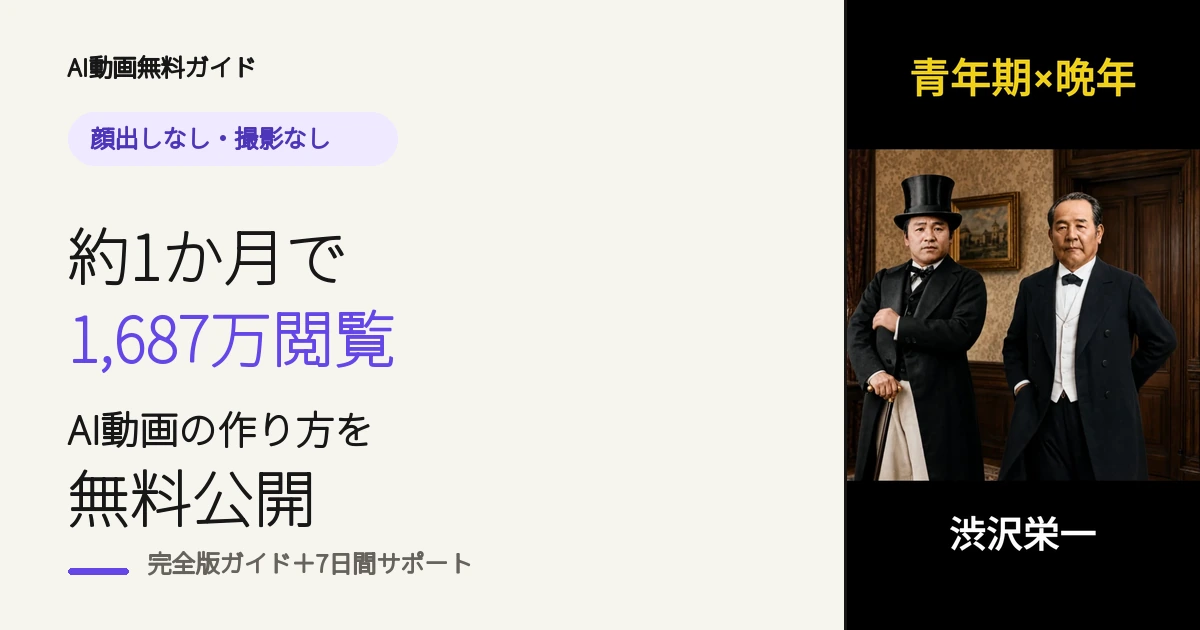
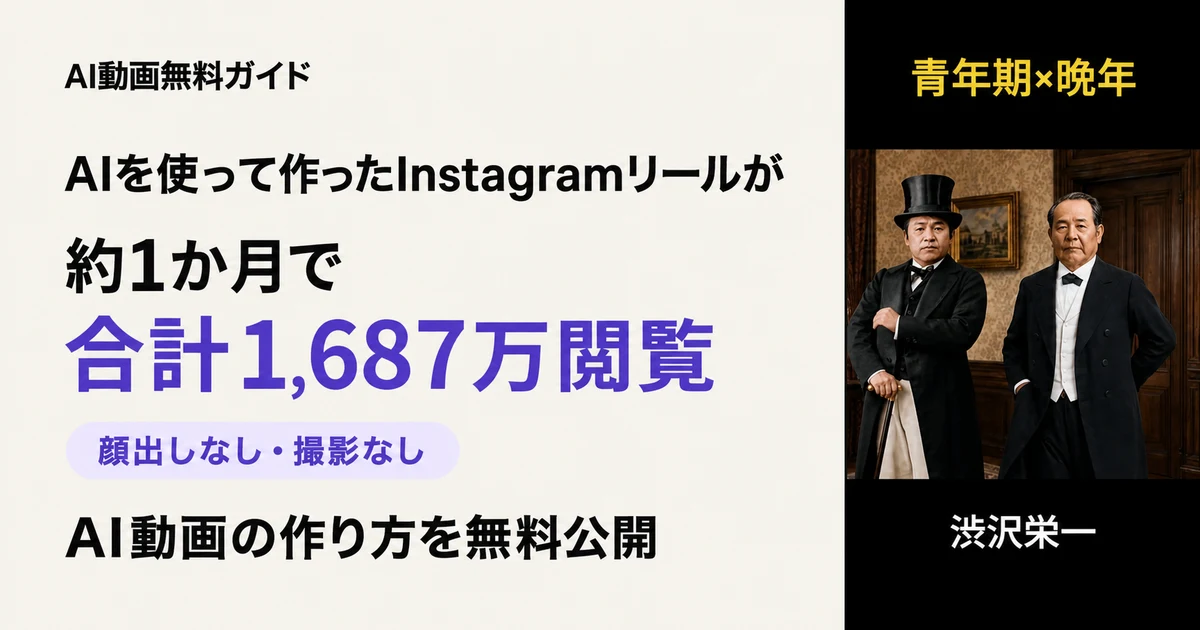
fix: refine Reels results and guide section design

diff --git a/app/page.tsx b/app/page.tsx
@@ -6,8 +6,8 @@ import LineCta from "@/components/LineCta";
 import SectionHeading from "@/components/SectionHeading";
 
 const results = [
-  { value: "16,873,128", label: "閲覧数" },
-  { value: "99.1%", label: "フォロワー以外からの閲覧" },
+  { value: "16,873,128", label: "約1か月の合計閲覧数" },
+  { value: "1本あたり平均50万回以上", label: "Instagramリールの平均閲覧数", compact: true },
   { value: "7,637,277", label: "リーチしたアカウント" },
 ];
 
@@ -81,12 +81,18 @@ const supportNotes = [
 const disclaimers = [
   "本ガイドは、同じ閲覧数や収益を保証するものではありません。",
   "結果は投稿ジャンル、内容、継続期間、各SNSの状況などによって異なります。",
-  "紹介するサービスの一部には、アフィリエイトリンクが含まれる場合があります。リンクを経由しても、利用料金が上乗せされることはありません。",
   "AIサービスの料金、仕様、利用可能なモデルは変更される場合があります。",
 ];
 
 export default function Home() {
-  const lineUrl = process.env.NEXT_PUBLIC_LINE_URL || "#";
+  const configuredLineUrl = process.env.NEXT_PUBLIC_LINE_URL?.trim();
+  const lineUrl = configuredLineUrl && /^https:\/\/([a-z0-9-]+\.)?(line\.me|lin\.ee)\//i.test(configuredLineUrl)
+    ? configuredLineUrl
+    : undefined;
+
+  if (process.env.NODE_ENV === "development" && !lineUrl) {
+    console.warn("NEXT_PUBLIC_LINE_URLに有効なLINE URLが設定されていません。CTAを無効表示します。");
+  }
   const faqJsonLd = {
     "@context": "https://schema.org",
     "@type": "FAQPage",
@@ -132,19 +138,19 @@ export default function Home() {
               <p className="inline-flex rounded-full border border-[#6547E8]/20 bg-white/80 px-4 py-2 text-[13px] font-bold text-[#4D35B8] sm:text-sm">
                 顔出しなし・撮影なし・専門スキルなし
               </p>
-              <h1 className="mt-5 text-[clamp(2.45rem,5.2vw,4.25rem)] font-black leading-[1.12] tracking-[-0.055em] text-[#171717]">
-                <span className="block">AI動画で、</span>
-                <span className="mt-1 block lg:whitespace-nowrap">
-                  <span className="block whitespace-nowrap sm:inline">約1か月で</span>
-                  <span className="block whitespace-nowrap text-[#6547E8] sm:inline">1,687万閲覧。</span>
-                </span>
+              <h1 className="mt-5 text-[clamp(2rem,8.8vw,3.75rem)] font-black leading-[1.16] tracking-[-0.05em] text-[#171717]">
+                <span className="block whitespace-nowrap">AIを使って作った</span>
+                <span className="block whitespace-nowrap">Instagramリールが、</span>
+                <span className="mt-1 block whitespace-nowrap">約1か月で</span>
+                <span className="block whitespace-nowrap text-[#6547E8]">合計1,687万閲覧。</span>
               </h1>
               <p className="mt-6 text-[18px] font-black leading-[1.75] tracking-[-0.025em] text-[#171717] sm:text-2xl sm:leading-[1.65]">
-                顔出しも、撮影も不要。<br />
-                実際に使っている制作手順を<br className="sm:hidden" />無料で公開します。
+                実際に使った制作手順を、<br />
+                プロンプトと操作画面付きで無料公開します。
               </p>
               <p className="mt-5 max-w-[680px] text-[15px] leading-[1.9] text-[#66635C] sm:text-[17px]">
-                顔出しなしで運用しているInstagramアカウントで実際に使っている、画像生成から動画化・編集・投稿までの手順を、プロンプトと操作画面付きで公開します。
+                画像生成から動画化・編集・投稿まで、<br />
+                最初の1本を作る順番で解説します。
               </p>
 
               <div className="mt-7 max-w-[560px]">
@@ -171,22 +177,25 @@ export default function Home() {
               <SectionHeading
                 id="results-heading"
                 label="実際の運用結果"
-                title="数字だけでなく、実際のインサイトも公開します"
+                title={<>2026年5月10日〜6月10日の<br />Instagramリール運用実績</>}
                 align="left"
               />
               <p className="mt-6 max-w-[620px] text-base leading-[1.9] text-[#66635C] sm:text-[18px]">
-                <span className="whitespace-nowrap font-bold text-[#171717]">5月10日〜6月10日</span>の閲覧数は
-                <span className="whitespace-nowrap font-bold text-[#6547E8]">16,873,128</span>。
-                そのうち<span className="whitespace-nowrap font-bold text-[#6547E8]">99.1%</span>がフォロワー以外からの閲覧でした。
+                AIを使って作ったInstagramリールの<br />
+                合計閲覧数は<span className="whitespace-nowrap font-bold text-[#6547E8]">16,873,128</span>。<br />
+                リーチしたアカウントは<span className="whitespace-nowrap font-bold text-[#171717]">7,637,277</span>でした。
               </p>
               <div className="mt-9 grid grid-cols-1 gap-3 sm:grid-cols-3 lg:grid-cols-1">
                 {results.map((result) => (
                   <div key={result.label} className="flex items-baseline justify-between gap-4 border-b border-black/10 py-4 sm:block lg:flex">
-                    <p className="whitespace-nowrap text-[clamp(1.75rem,4vw,2.5rem)] font-black tracking-[-0.04em] text-[#171717]">{result.value}</p>
+                    <p className={`whitespace-nowrap font-black tracking-[-0.04em] text-[#171717] ${result.compact ? "text-[clamp(1.35rem,2.6vw,2rem)]" : "text-[clamp(1.75rem,4vw,2.5rem)]"}`}>{result.value}</p>
                     <p className="text-right text-xs font-bold leading-5 text-[#66635C] sm:mt-2 sm:text-left lg:mt-0 lg:text-right lg:text-sm">{result.label}</p>
                   </div>
                 ))}
               </div>
+              <p className="mt-4 text-xs leading-6 text-[#66635C] sm:text-[13px]">
+                閲覧の99.1%はフォロワー以外からでした。
+              </p>
             </div>
             <figure className="mx-auto w-full max-w-[470px]">
               <div className="overflow-hidden rounded-[28px] border border-black/10 bg-white p-2 shadow-[0_18px_45px_rgba(23,23,23,0.12)] sm:p-3">
@@ -199,9 +208,6 @@ export default function Home() {
                   sizes="(max-width: 768px) 92vw, 470px"
                 />
               </div>
-              <figcaption className="mt-4 text-center text-xs leading-6 text-[#66635C] sm:text-[13px]">
-                Instagramアプリの実際のインサイト画面<br />数値と期間は加工していません
-              </figcaption>
             </figure>
           </Container>
         </section>
@@ -251,10 +257,10 @@ export default function Home() {
                 <CheckList items={guideItems} />
               </div>
             </div>
-            <aside className="rounded-[28px] bg-[#171717] p-7 text-white shadow-[0_18px_45px_rgba(23,23,23,0.12)] sm:p-9" aria-label="完全版ガイドの概要">
-              <p className="text-xs font-bold tracking-[0.14em] text-[#B8A9FF]">COMPLETE GUIDE</p>
+            <aside className="rounded-[28px] border border-black/10 bg-[#F4F0FF] p-7 text-[#171717] shadow-[0_12px_30px_rgba(23,23,23,0.07)] sm:p-9 lg:mt-8" aria-label="完全版ガイドの概要">
+              <p className="text-xs font-bold tracking-[0.12em] text-[#6547E8]">無料ガイドの内容</p>
               <h3 className="mt-4 text-2xl font-black leading-[1.5] sm:text-3xl">迷わず進めるための<br />制作ロードマップ</h3>
-              <ol className="mt-7 space-y-4 border-l border-white/20 pl-5 text-sm leading-7 text-white/75 sm:text-base">
+              <ol className="mt-7 space-y-4 border-l border-black/10 pl-5 text-sm leading-7 text-[#66635C] sm:text-base">
                 <li>画像を作る</li>
                 <li>AIで動きを付ける</li>
                 <li>音声・字幕を整える</li>
@@ -263,20 +269,17 @@ export default function Home() {
               <div className="mt-8">
                 <LineCta href={lineUrl} location="guide" />
               </div>
-              <p className="mt-3 text-center text-xs leading-5 text-white/60">登録後すぐに届きます・追加料金なし</p>
+              <p className="mt-3 text-center text-xs leading-5 text-[#66635C]">登録後すぐに届きます・追加料金なし</p>
             </aside>
           </Container>
         </section>
 
-        <section className="section-space border-y border-black/10 bg-white" aria-labelledby="reason-heading">
+        <section className="border-y border-black/10 bg-white py-14 sm:py-20 lg:py-24" aria-labelledby="reason-heading">
           <Container size="text">
             <SectionHeading id="reason-heading" label="無料公開の理由" title="遠回りした部分まで、まとめて公開します" align="left" />
             <div className="mt-8 space-y-5 text-base leading-[2] text-[#5B5852] sm:text-[18px]">
               <p>私自身、最初はどのAIを使えばいいか分からず、必要のないプランを契約したり、使えない生成に時間や費用を使ったりしました。</p>
               <p>これから始める人には、同じ遠回りをしてほしくありません。そこで、実際に使っている制作手順と、失敗しやすいポイントを無料でまとめました。</p>
-            </div>
-            <div className="mt-8 rounded-[22px] border border-[#6547E8]/20 bg-[#F4F0FF] px-6 py-5 text-sm leading-[1.9] text-[#4F476A] sm:px-7 sm:text-[15px]">
-              紹介するサービスの一部には、アフィリエイトリンクが含まれる場合があります。リンクを経由しても、利用料金が上乗せされることはありません。
             </div>
           </Container>
         </section>

diff --git a/components/LineCta.tsx b/components/LineCta.tsx
@@ -1,14 +1,28 @@
 type CtaLocation = "header" | "hero" | "guide" | "final";
 
 type LineCtaProps = {
-  href: string;
+  href?: string;
   location: CtaLocation;
   compact?: boolean;
 };
 
 export default function LineCta({ href, location, compact = false }: LineCtaProps) {
-  const external = /^https?:\/\//.test(href);
   const label = "LINEで無料ガイドを受け取る";
+  const sizeClasses = compact ? "min-h-12 px-5 py-2 text-sm" : "min-h-[60px] gap-3 px-5 py-4 text-[16px] sm:text-[17px]";
+
+  if (!href) {
+    return (
+      <span
+        data-cta="line-registration"
+        data-cta-location={location}
+        data-cta-state="unconfigured"
+        aria-disabled="true"
+        className={`flex w-full cursor-not-allowed items-center justify-center rounded-[18px] border border-black/10 bg-[#E4E1DA] font-bold text-[#66635C] ${sizeClasses}`}
+      >
+        LINE登録は現在準備中です
+      </span>
+    );
+  }
 
   return (
     <a
@@ -16,11 +30,9 @@ export default function LineCta({ href, location, compact = false }: LineCtaProp
       data-cta="line-registration"
       data-cta-location={location}
       aria-label={`${label}（LINE公式アカウントへ移動）`}
-      target={external ? "_blank" : undefined}
-      rel={external ? "noopener noreferrer" : undefined}
-      className={`group flex w-full items-center justify-center rounded-[18px] bg-[#06C755] font-black text-white shadow-[0_10px_24px_rgba(6,199,85,0.2)] transition-colors duration-200 hover:bg-[#05B94E] focus-visible:outline-none focus-visible:ring-4 focus-visible:ring-[#6547E8]/35 focus-visible:ring-offset-2 ${
-        compact ? "min-h-12 px-5 py-2 text-sm" : "min-h-[60px] gap-3 px-5 py-4 text-[16px] sm:text-[17px]"
-      }`}
+      target="_blank"
+      rel="noopener noreferrer"
+      className={`group flex w-full items-center justify-center rounded-[18px] bg-[#06C755] font-black text-white shadow-[0_10px_24px_rgba(6,199,85,0.2)] transition-colors duration-200 hover:bg-[#05B94E] focus-visible:outline-none focus-visible:ring-4 focus-visible:ring-[#6547E8]/35 focus-visible:ring-offset-2 ${sizeClasses}`}
     >
       <span>{compact ? "無料ガイドを受け取る" : label}</span>
       {!compact ? <span aria-hidden="true" className="transition-transform duration-200 group-hover:translate-x-0.5">→</span> : null}

diff --git a/components/HeroVideo.tsx b/components/HeroVideo.tsx
@@ -55,14 +55,25 @@ export default function HeroVideo() {
           sizes="(max-width: 768px) 82vw, 350px"
         />
       )}
-      <button
-        type="button"
-        onClick={togglePlayback}
-        className="absolute bottom-3 right-3 min-h-11 rounded-full border border-white/20 bg-black/65 px-4 text-xs font-bold text-white backdrop-blur-sm transition-colors hover:bg-black/80 focus-visible:outline-none focus-visible:ring-4 focus-visible:ring-white/60"
-        aria-label={!activated || !playing ? "AI動画を再生する" : "AI動画を一時停止する"}
-      >
-        {!activated || !playing ? "再生" : "一時停止"}
-      </button>
+      {!activated ? (
+        <button
+          type="button"
+          onClick={togglePlayback}
+          className="absolute left-1/2 top-1/2 min-h-14 -translate-x-1/2 -translate-y-1/2 whitespace-nowrap rounded-full border border-white/30 bg-black/75 px-6 text-sm font-black text-white shadow-[0_10px_30px_rgba(0,0,0,0.3)] backdrop-blur-sm transition-colors hover:bg-black/90 focus-visible:outline-none focus-visible:ring-4 focus-visible:ring-white/70 sm:text-base"
+          aria-label="作例動画を再生する"
+        >
+          ▶ 作例動画を見る
+        </button>
+      ) : (
+        <button
+          type="button"
+          onClick={togglePlayback}
+          className="absolute bottom-3 right-3 min-h-11 rounded-full border border-white/20 bg-black/65 px-4 text-xs font-bold text-white backdrop-blur-sm transition-colors hover:bg-black/80 focus-visible:outline-none focus-visible:ring-4 focus-visible:ring-white/60"
+          aria-label={playing ? "AI動画を一時停止する" : "AI動画を再生する"}
+        >
+          {playing ? "一時停止" : "再生"}
+        </button>
+      )}
     </div>
   );
 }

diff --git a/app/layout.tsx b/app/layout.tsx
@@ -2,8 +2,8 @@ import type { Metadata } from "next";
 import "./globals.css";
 
 const siteUrl = "https://ai-video-guide-lp.vercel.app";
-const title = "顔出しなしのAI動画で約1か月1,687万閲覧｜無料制作ガイド";
-const description = "顔出し・撮影・専門スキルなしで始めるAI動画制作。Instagramで約1か月16,873,128閲覧を記録した制作手順を、プロンプトと操作画面付きで無料公開。最初の1本まで7日間サポート付き。";
+const title = "顔出しなしのInstagramリールで約1か月1,687万閲覧｜AI動画無料ガイド";
+const description = "顔出し・撮影・専門スキルなしで始めるAI動画制作。AIを使って作ったInstagramリールが、2026年5月10日から6月10日までの約1か月で合計16,873,128閲覧。実際の制作手順をプロンプトと操作画面付きで無料公開。最初の1本まで7日間サポート付き。";
 
 export const metadata: Metadata = {
   metadataBase: new URL(siteUrl),
@@ -22,7 +22,7 @@ export const metadata: Metadata = {
     url: "/",
     siteName: "AI動画無料ガイド",
     locale: "ja_JP",
-    images: [{ url: "/assets/og-image.webp", width: 1200, height: 630, alt: "顔出しなし・撮影なしで作るAI動画無料ガイド" }],
+    images: [{ url: "/assets/og-image.webp", width: 1200, height: 630, alt: "AIを使って作ったInstagramリールが約1か月で合計1,687万閲覧" }],
   },
   twitter: {
     card: "summary_large_image",

diff --git a/components/SectionHeading.tsx b/components/SectionHeading.tsx
@@ -1,7 +1,9 @@
+import type { ReactNode } from "react";
+
 type SectionHeadingProps = {
   id: string;
   label: string;
-  title: string;
+  title: ReactNode;
   align?: "center" | "left";
 };
 

diff --git a/README.md b/README.md
@@ -35,7 +35,7 @@ npm run build
 
 ## LINE登録URLの設定
 
-すべてのLINE登録ボタンは、環境変数 `NEXT_PUBLIC_LINE_URL` を参照します。未設定時は `#` になります。
+すべてのLINE登録ボタンは、環境変数 `NEXT_PUBLIC_LINE_URL` を参照します。未設定またはLINE公式ドメイン以外のURLの場合は、リンクを生成せず「LINE登録は現在準備中です」と表示します。
 
 `.env.example` をコピーして `.env.local` を作成し、実際のLINE公式アカウントURLへ変更してください。
 
